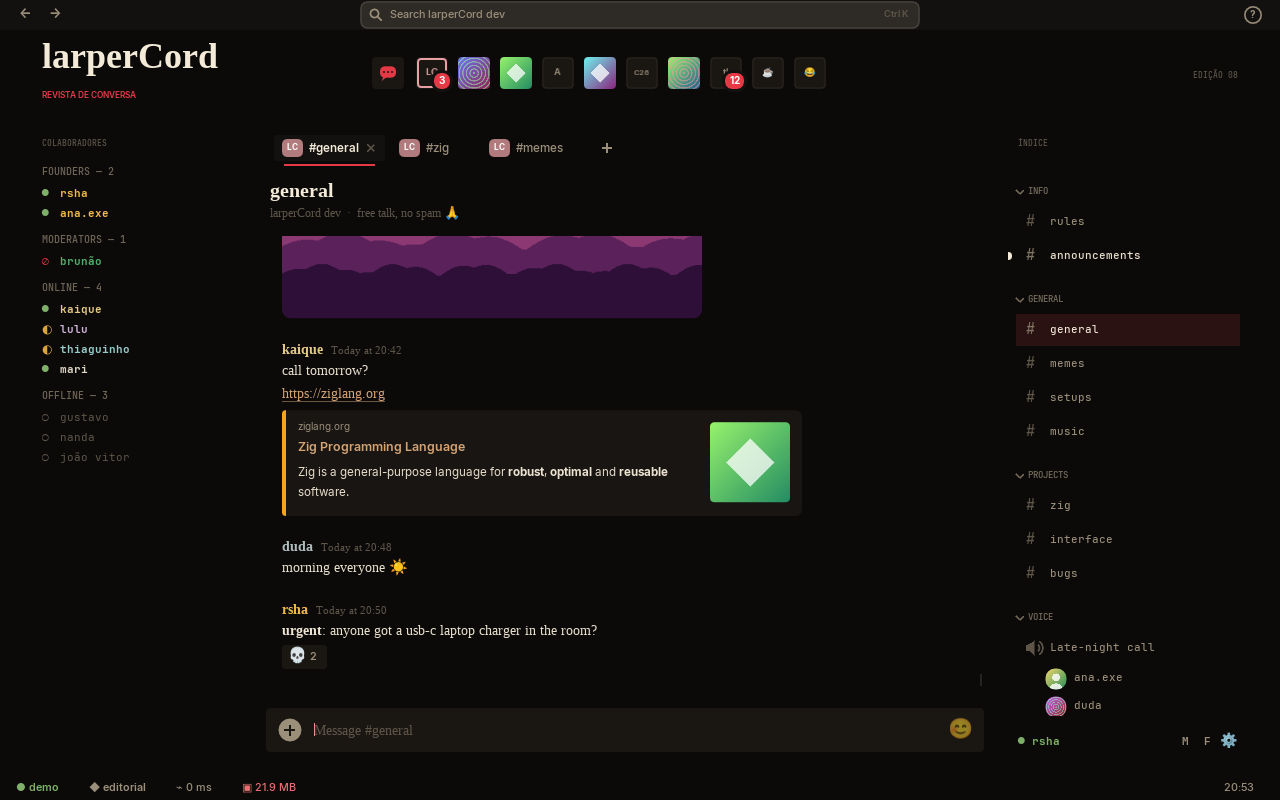
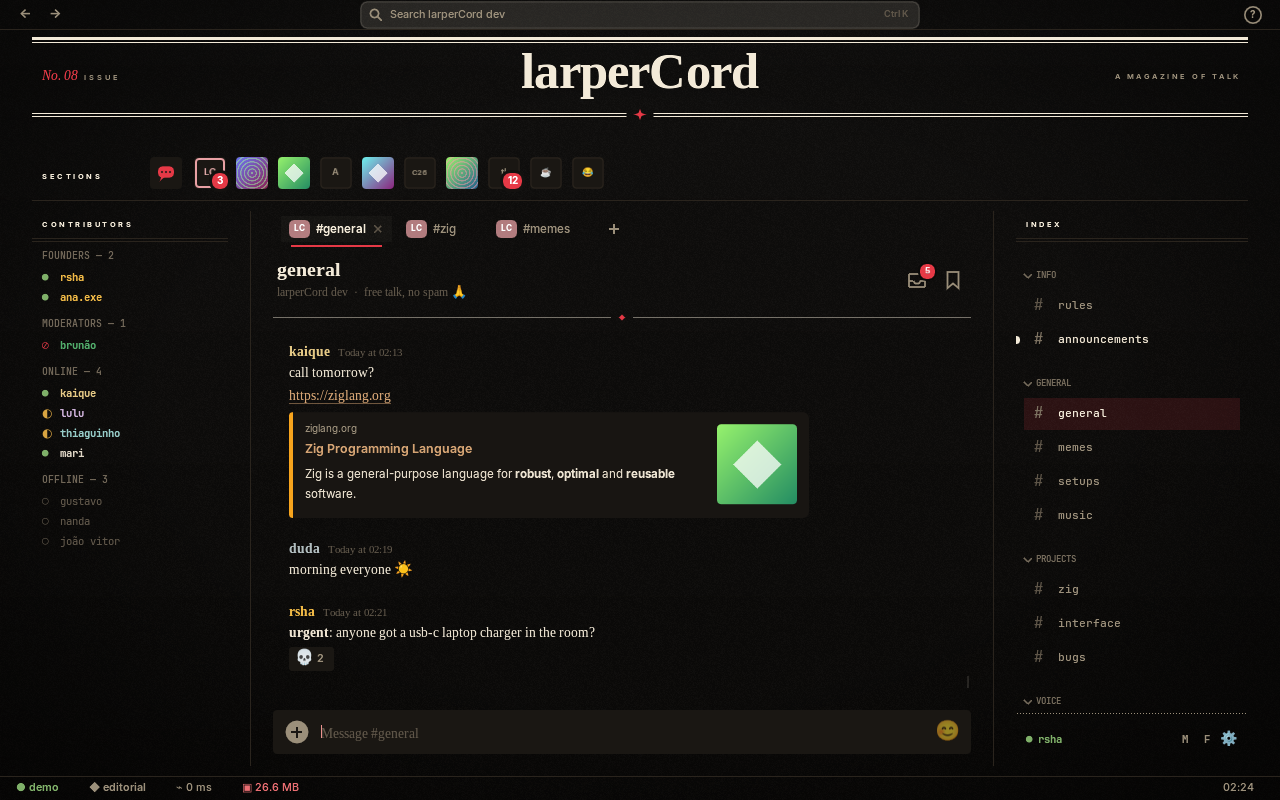
Prints dos temas refeitos (com o cupertino), tema novo na tabela do README e roadmap sem o que já está pronto (imagens, voz)

diff --git a/README.md b/README.md
@@ -210,10 +210,10 @@ gateway falso pelo real não toca na interface.
 - [x] Gateway real (WebSocket, heartbeat, reconexão) e REST respeitando o rate limit
 - [x] RESUME de sessão e zlib-stream
 - [x] Presenças, membros e eventos de servidor/canal (GUILD_CREATE, CHANNEL_*)
-- [ ] Imagens: avatares, anexos e emojis personalizados com cache de tamanho fixo
+- [x] Imagens: avatares, anexos e emojis personalizados com cache de tamanho fixo
 - [ ] Permissões por canal (esconder o que não dá pra ler), threads e fóruns
 - [ ] Notificações nativas via D-Bus
-- [ ] Voz (DAVE/MLS + Opus + RNNoise)
+- [x] Voz (DAVE/MLS + Opus)
 - [ ] Backend por software (`wl_shm`, sem GPU) para ficar em ~15–20 MB
 - [ ] Componentes de tema escritos em Lua (sandbox)
 
